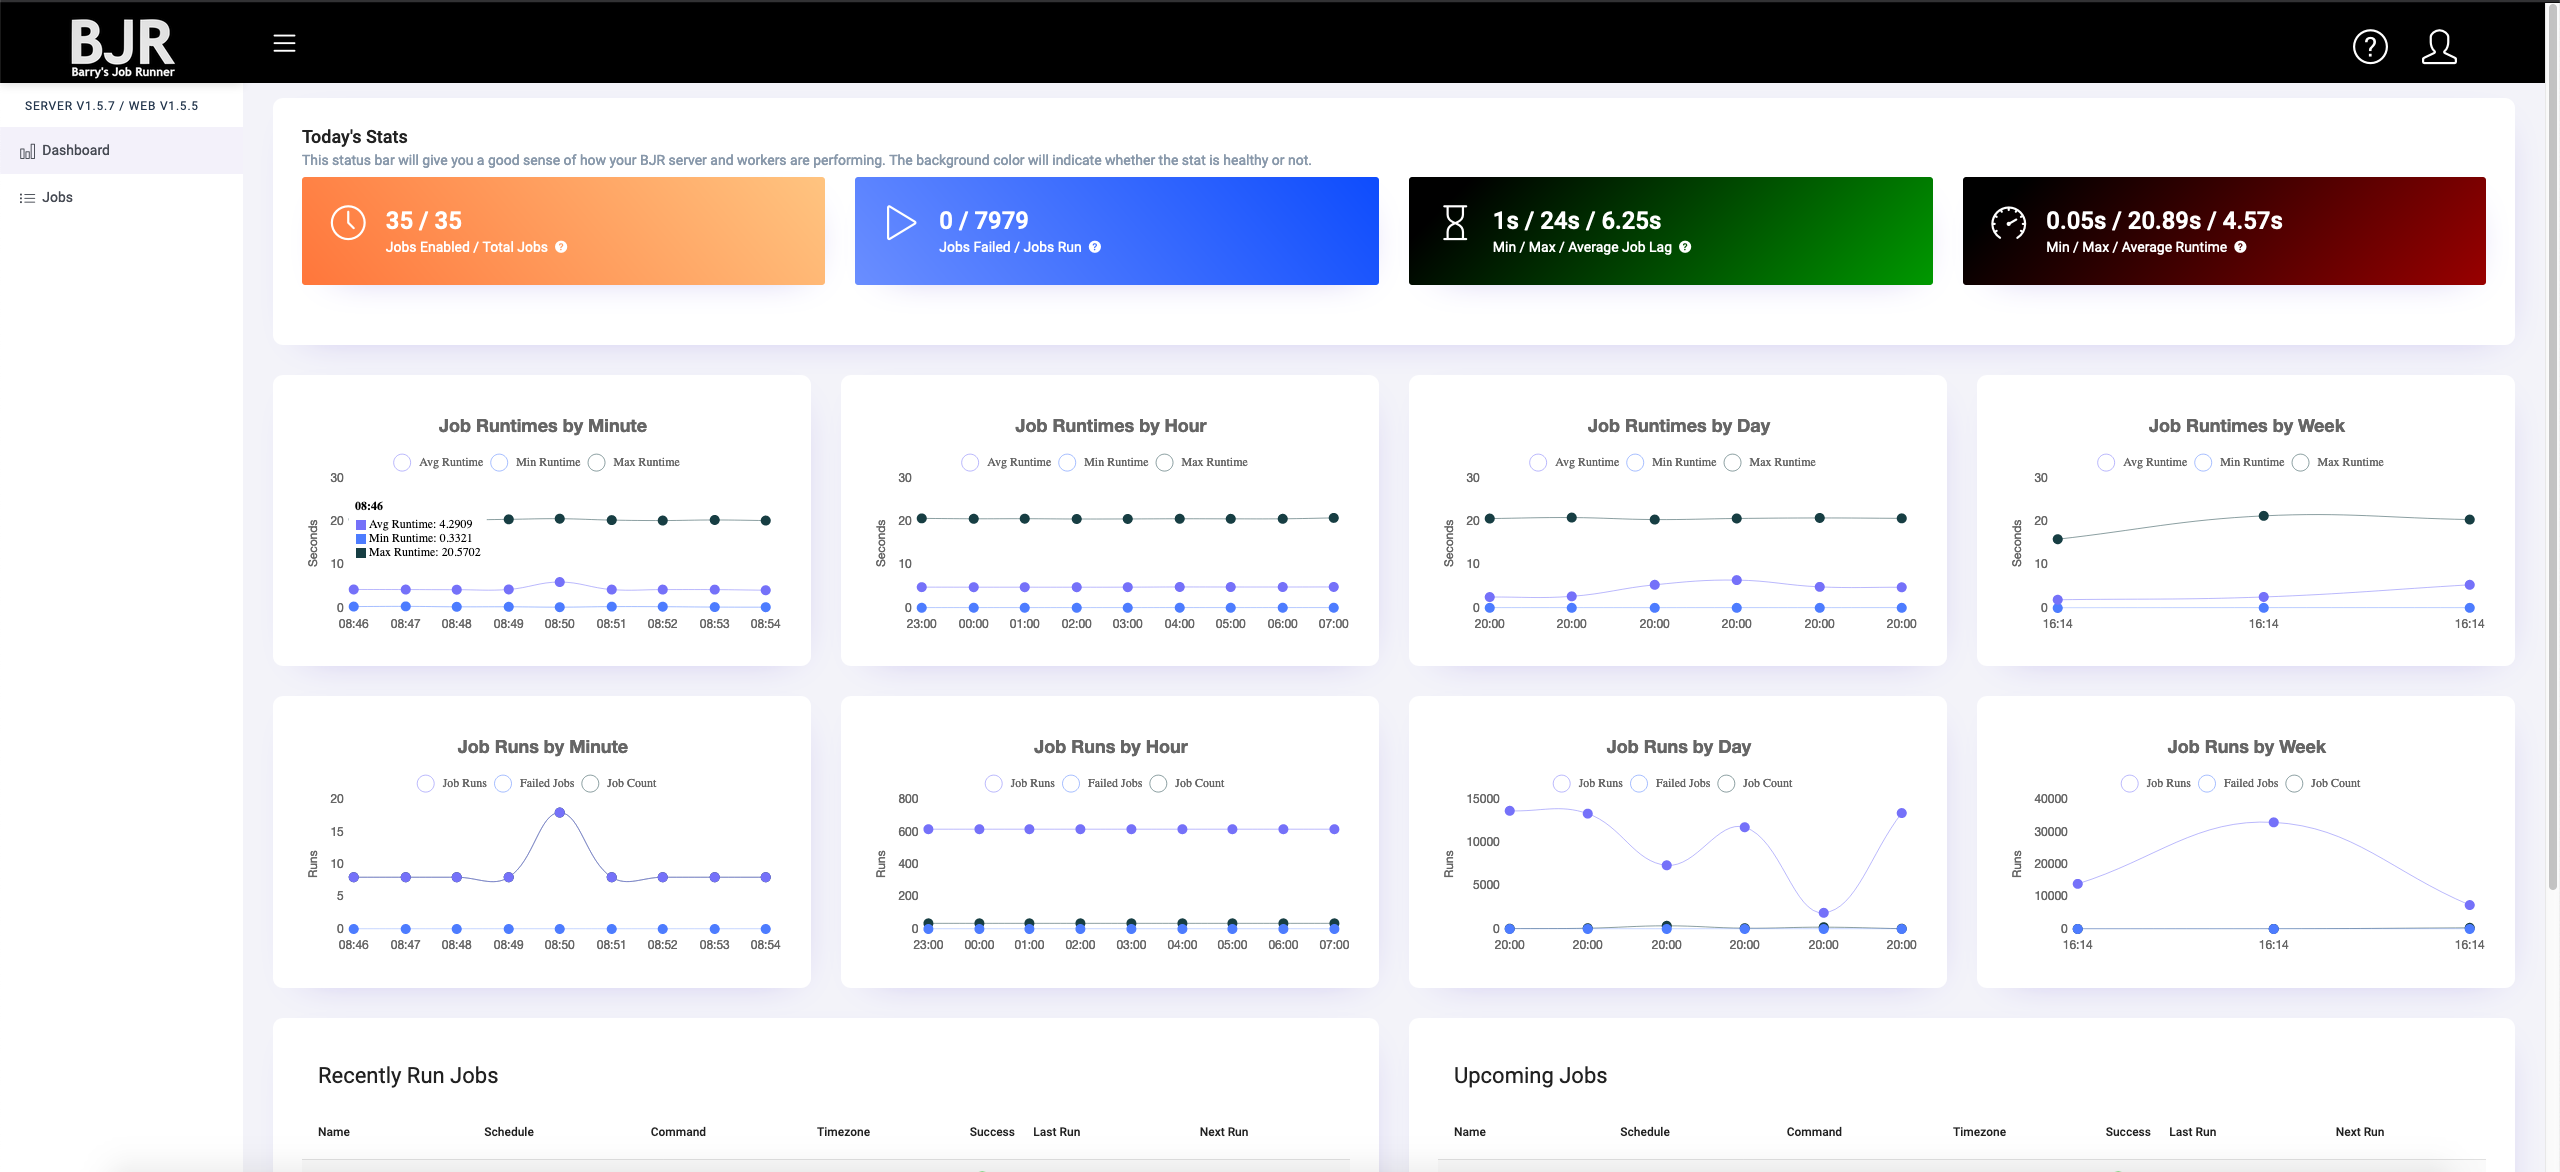
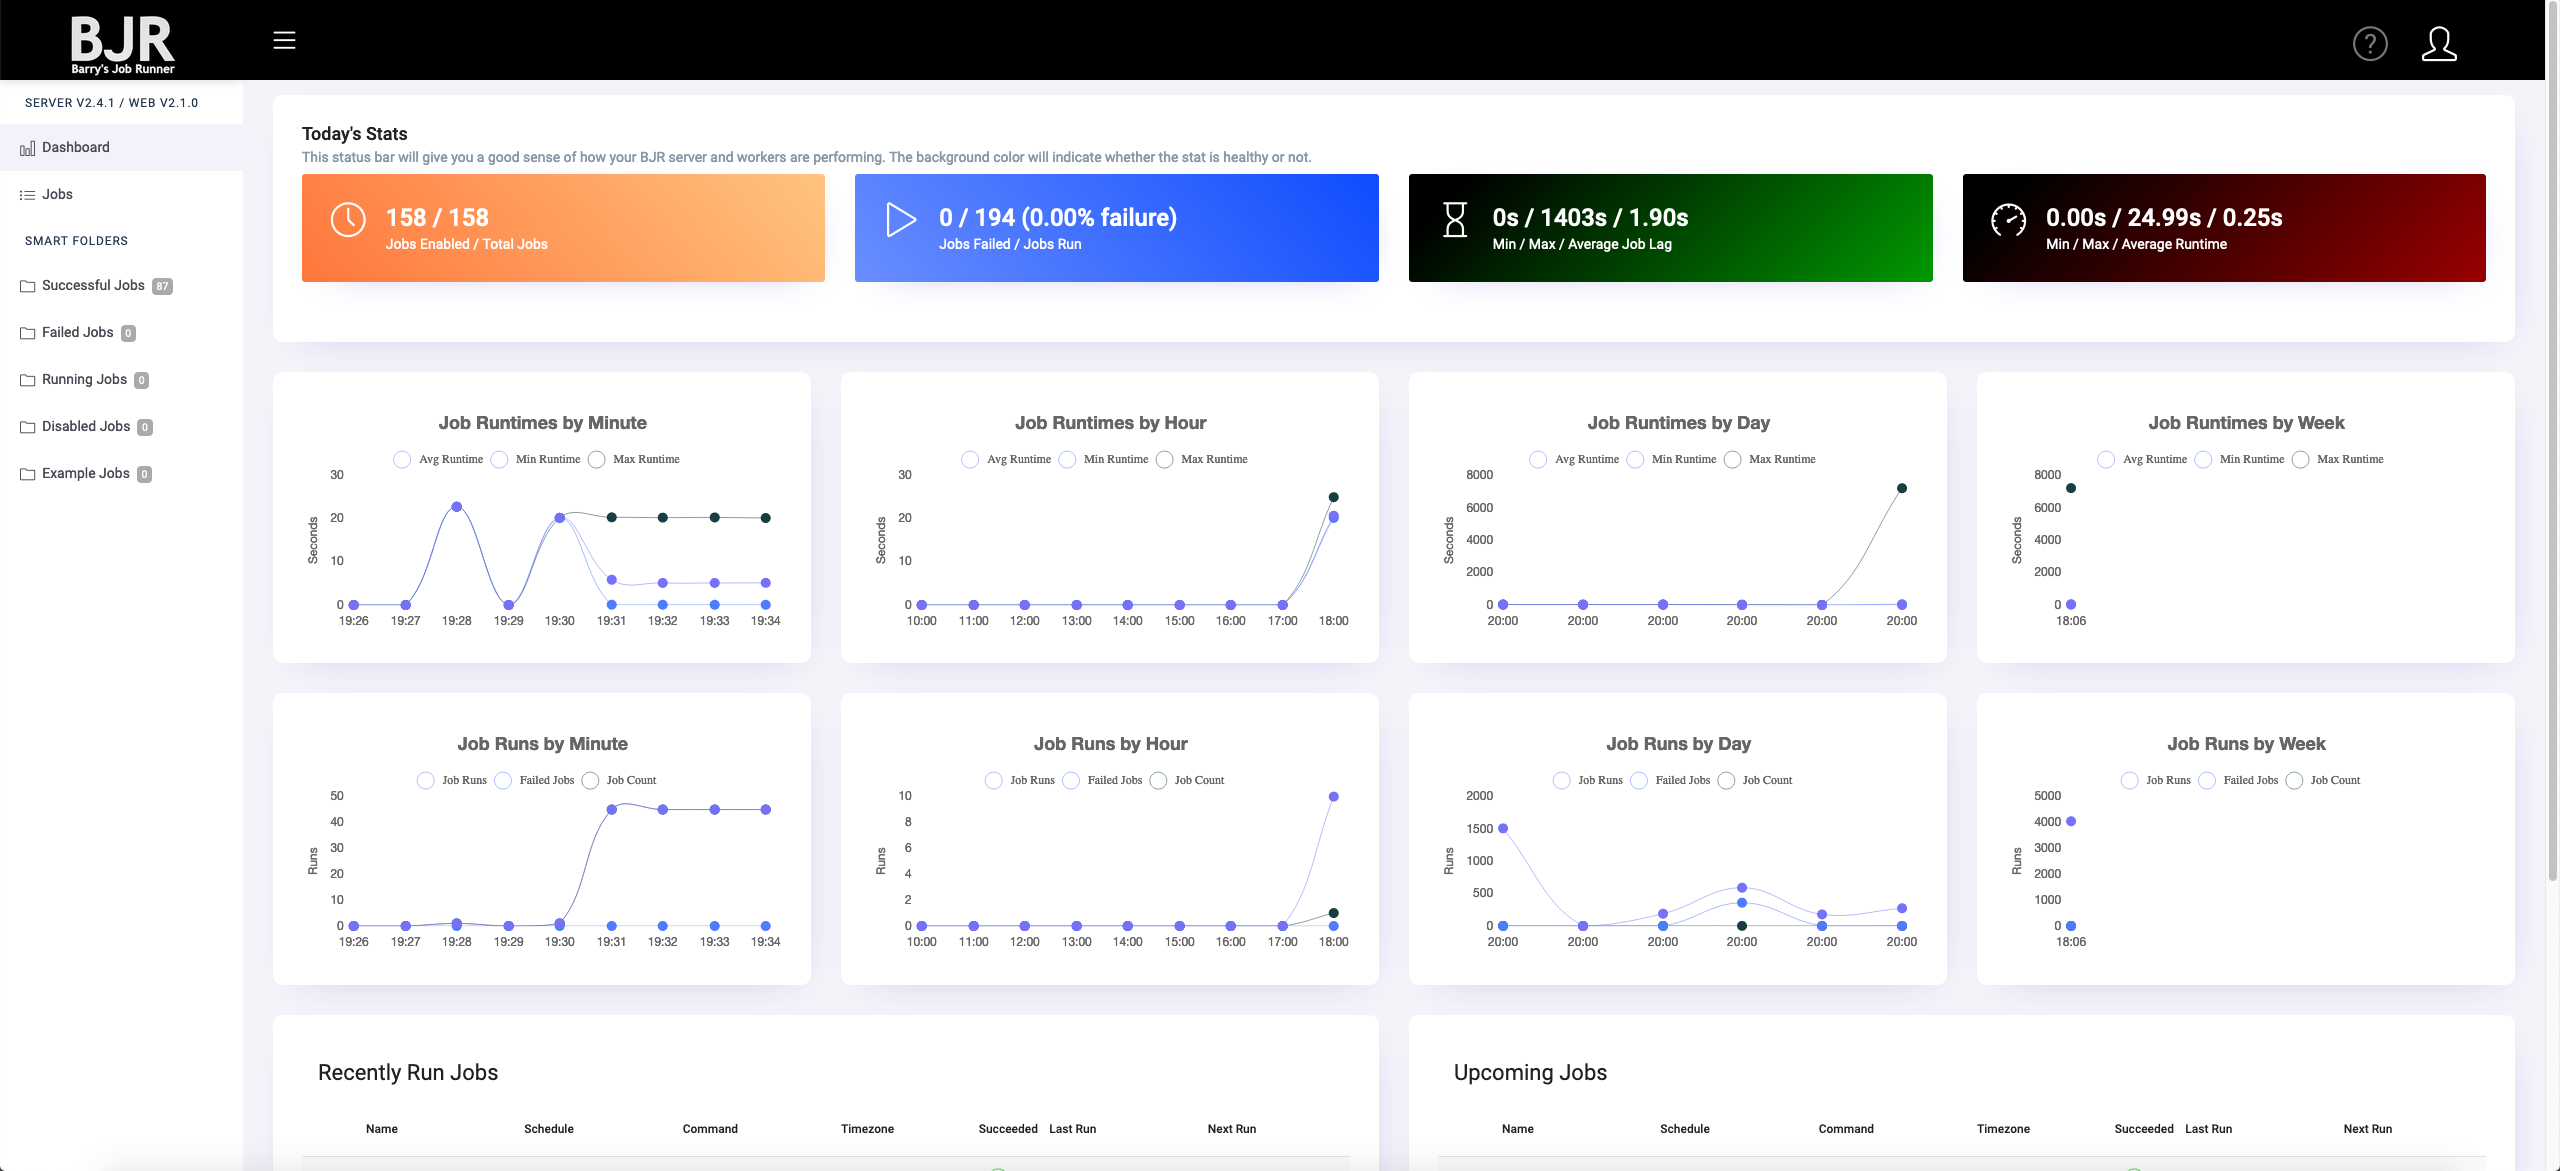
Minor code tweaks and update dashboard and job listing images.

diff --git a/app/javascript/components/BJRJobDataTable.tsx b/app/javascript/components/BJRJobDataTable.tsx
@@ -26,6 +26,7 @@ import JobEditorComponent from './JobEditorComponent';
 import ConfirmationDialog from './ConfirmationDialog';
 import CronDisplayCell from './CronDisplayCell';
 import JobRunsComponent from './JobRunsComponent';
+import TrendIndicator from './TrendIndicator';
 
 import { configureAxios } from './AjaxUtils';
 import { setAsyncState } from './ReactUtils';
@@ -125,7 +126,11 @@ export default class BJRJobDataTable extends React.Component {
       { name: I18n.t("common.job_table.last_run"), selector: 'last_run', sortable: true, cell: row => <LastRunCell row={row}/> },
       { name: I18n.t("common.job_table.next_run"), selector: 'next_run', sortable: true, cell: row => <NextRunCell row={row}/> },
       { name: I18n.t("common.job_table.created_at"), selector: 'created_at', sortable: true, cell: row => <DateTimeDistanceCell datetime={row.created_at}/> },
-      { name: I18n.t("common.job_table.updated_at"), selector: 'updated_at', sortable: true, cell: row => <DateTimeDistanceCell datetime={row.updated_at}/> }
+      { name: I18n.t("common.job_table.updated_at"), selector: 'updated_at', sortable: true, cell: row => <DateTimeDistanceCell datetime={row.updated_at}/> },
+      { name: "Average Duration", selector: 'avg_run_duration', sortable: true,
+        cell: row => <div>{row.avg_run_duration}&nbsp;&nbsp;<TrendIndicator trend={row.avg_run_duration_trend}/></div> },
+      { name: "Average Lag", selector: 'avg_run_lag', sortable: true,
+        cell: row => <div>{row.avg_run_lag}&nbsp;&nbsp;<TrendIndicator trend={row.avg_run_lag_trend}/></div> }
     ];
   }
 
@@ -336,6 +341,7 @@ export default class BJRJobDataTable extends React.Component {
           pagination={displayFull ? true : false}
           paginationServer
           paginationTotalRows={totalRows}
+          paginationComponentOptions={{rowsPerPageText: 'Jobs per page: ', rangeSeparatorText: 'of', noRowsPerPage: false, selectAllRowsItem: false, selectAllRowsItemText: 'All'}}
           expandableRows
           expandableRowsComponent={<JobRunsComponent />}
           onChangeRowsPerPage={this.handlePerRowsChange}
@@ -347,6 +353,7 @@ export default class BJRJobDataTable extends React.Component {
           selectableRowDisabled={row => row.running}
           clearSelectedRows={this.state.toggledClearRows}
           paginationRowsPerPageOptions={[10,20,50,100]}
+          noDataComponent={<div>{I18n.t('jobs.no_jobs')}</div>}
         />
         <Modal show={showDeleteModal} onHide={this.cancelDelete} size="sm" centered>
           <ConfirmationDialog title={I18n.t('jobs.delete.title')} body={I18n.t('jobs.delete.confirm')}

diff --git a/app/javascript/components/ReactUtils.ts b/app/javascript/components/ReactUtils.ts
@@ -3,3 +3,31 @@ Promisify setState
 */
 export const setAsyncState = (self, newState) =>
     new Promise((resolve) => self.setState(newState, resolve));
+
+/*
+Color blending. Found here: https://stackoverflow.com/questions/5560248/programmatically-lighten-or-darken-a-hex-color-or-rgb-and-blend-colors
+*/
+export const pSBC = (p,c0,c1,l) => {
+    let r,g,b,P,f,t,h,i=parseInt,m=Math.round,a=typeof(c1)=="string";
+    if(typeof(p)!="number"||p<-1||p>1||typeof(c0)!="string"||(c0[0]!='r'&&c0[0]!='#')||(c1&&!a))return null;
+    if(!this.pSBCr)this.pSBCr=(d)=>{
+        let n=d.length,x={};
+        if(n>9){
+            [r,g,b,a]=d=d.split(","),n=d.length;
+            if(n<3||n>4)return null;
+            x.r=i(r[3]=="a"?r.slice(5):r.slice(4)),x.g=i(g),x.b=i(b),x.a=a?parseFloat(a):-1
+        }else{
+            if(n==8||n==6||n<4)return null;
+            if(n<6)d="#"+d[1]+d[1]+d[2]+d[2]+d[3]+d[3]+(n>4?d[4]+d[4]:"");
+            d=i(d.slice(1),16);
+            if(n==9||n==5)x.r=d>>24&255,x.g=d>>16&255,x.b=d>>8&255,x.a=m((d&255)/0.255)/1000;
+            else x.r=d>>16,x.g=d>>8&255,x.b=d&255,x.a=-1
+        }return x};
+    h=c0.length>9,h=a?c1.length>9?true:c1=="c"?!h:false:h,f=this.pSBCr(c0),P=p<0,t=c1&&c1!="c"?this.pSBCr(c1):P?{r:0,g:0,b:0,a:-1}:{r:255,g:255,b:255,a:-1},p=P?p*-1:p,P=1-p;
+    if(!f||!t)return null;
+    if(l)r=m(P*f.r+p*t.r),g=m(P*f.g+p*t.g),b=m(P*f.b+p*t.b);
+    else r=m((P*f.r**2+p*t.r**2)**0.5),g=m((P*f.g**2+p*t.g**2)**0.5),b=m((P*f.b**2+p*t.b**2)**0.5);
+    a=f.a,t=t.a,f=a>=0||t>=0,a=f?a<0?t:t<0?a:a*P+t*p:0;
+    if(h)return"rgb"+(f?"a(":"(")+r+","+g+","+b+(f?","+m(a*1000)/1000:"")+")";
+    else return"#"+(4294967296+r*16777216+g*65536+b*256+(f?m(a*255):0)).toString(16).slice(1,f?undefined:-2)
+}

diff --git a/app/javascript/components/TrendIndicator.tsx b/app/javascript/components/TrendIndicator.tsx
@@ -1,0 +1,59 @@
+import React from 'react';
+
+import { pSBC } from './ReactUtils';
+
+export default function TrendIndicator(props)
+{
+  let trend = props.trend;
+
+  let neutral = "000000";
+  let good = "5ED758"
+  let bad = "FF4449"
+
+  let color = neutral;
+  let angle = 270;
+
+  let max = .5;
+  let angleInterval = (max / 90);
+  let colorInterval = (max / 100);
+
+  if(trend !== 0) {
+    if(trend < 0) {
+      if(trend < -max) {
+        color = good;
+        angle = 360;
+      } else {
+        angle = Math.round(trend / angleInterval) + 270;
+      }
+    } else {
+      if(trend > max) {
+        color = bad;
+        angle = 180;
+      } else {
+        let val = Math.abs(trend);
+        angle = 270 - Math.round(val / angleInterval);
+      }
+    }
+  }
+
+  const trendIndicatorStyle = {
+    overflow: 'visible',
+    padding: '1px'
+  };
+
+  return (
+    <svg
+      aria-hidden="true"
+      width="1.7em"
+      height="1.7em"
+      viewBox="0 0 1024 1024"
+      style={trendIndicatorStyle}
+    >
+      <path
+        d="M0 512q0 139 68.5 257T255 955.5t257 68.5 257-68.5T955.5 769t68.5-257-68.5-257T769 68.5 512 0 255 68.5 68.5 255 0 512zm961 0q0 91-35.5 174t-96 143T686 924.5 512 960t-174-35.5T195 829 99.5 686 64 512t35.5-174T195 195t143-95.5T512 64t174 35.5T829.5 195t96 143T961 512zM480 288v360L364 532q-3-3-7-5t-8-3-8-1-8 1-7.5 3-6.5 5q-18 18-5 39 2 4 5 7l194 189 194-189q9-10 9-23t-9.5-22.5T684 523t-23 9L544 650V288q0-14-9.5-23t-22.5-9q-7 0-13 2.5t-10 6.5-6.5 10-2.5 13z"
+        fill={`#${color}`} transform={`rotate(${angle} 512 512)`}
+      />
+      <path fill="rgba(0, 0, 0, 0)" d="M0 0h1024v1024H0z" />
+    </svg>
+  );
+}

diff --git a/app/javascript/components/JobRunsComponent.tsx b/app/javascript/components/JobRunsComponent.tsx
@@ -17,7 +17,7 @@ export default class JobRunsComponent extends React.Component {
     this.state = {
       data: props.data,
       runs: [],
-      title: 'Job Runs for ' + props.data.name + ' (' + props.data.id + ')',
+      title: I18n.t('runs.title', {name: props.data.name, id: props.data.id}),
       totalRows: 0,
       perPage: 10,
       page: 1
@@ -101,6 +101,7 @@ export default class JobRunsComponent extends React.Component {
           paginationTotalRows={totalRows}
           onChangeRowsPerPage={this.handlePerRowsChange}
           onChangePage={this.handlePageChange}
+          noDataComponent={<div>{I18n.t('jobs.no_job_runs')}</div>}
         />
       </React.Fragment>
     );

diff --git a/app/helpers/jobs_helper.rb b/app/helpers/jobs_helper.rb
@@ -13,7 +13,8 @@ module JobsHelper
       ui_jobs << { id: job.id, name: job.name, cron: job.cron, command: job.command,
                    timezone: job.timezone, success: job.success, enabled: job.enabled, running: job.running, last_run: job.last_run,
                    next_run: job.next_run, created_at: job.created_at, updated_at: job.updated_at, success_callback: job.success_callback,
-                   failure_callback: job.failure_callback, tags: job.tags.join(',') }
+                   failure_callback: job.failure_callback, tags: job.tags.join(','), avg_run_duration: job.avg_run_duration,
+                   avg_run_lag: job.avg_run_lag, avg_run_duration_trend: job.avg_run_duration_trend, avg_run_lag_trend: job.avg_run_lag_trend }
     end
 
     ui_jobs
